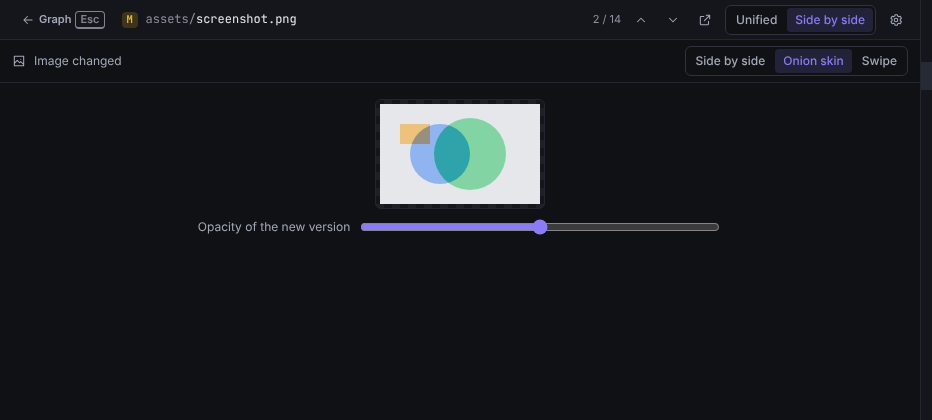
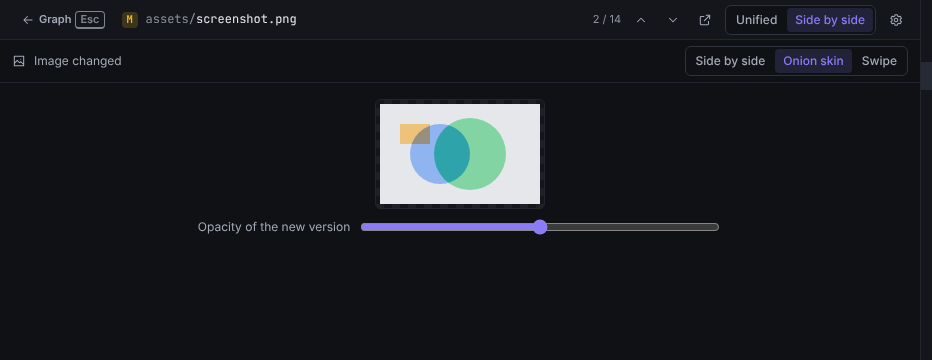
docs(website): fact-check everyday, graph, branches, tags and compare pages
Claude-Session: https://claude.ai/code/session_01V1i14To8BKiPDU9DUqr9cU

diff --git a/e2e/docs-screenshots/start-here.spec.ts b/e2e/docs-screenshots/start-here.spec.ts
@@ -1,0 +1,166 @@
+import { expect, test, type Page } from '@playwright/test';
+
+import { capture, openRepo, start } from './capture';
+
+/** Screenshots of the "Start here" pages: introduction, tour, open a repository, updates. */
+
+const toolbar = (page: Page) => page.getByRole('toolbar', { name: 'Repository actions' });
+const toastWith = (page: Page, text: string) => page.locator('ol > li').filter({ hasText: text });
+
+/** Mock setup (run before the app starts): an update to 0.2.0 offered through `channel`. */
+const updateSetup = (channel: string) => `(mock) => {
+  mock.seedPreferences({ checkUpdates: true });
+  mock.availableUpdate = {
+    currentVersion: '0.1.0',
+    version: '0.2.0',
+    notes: null,
+    date: null,
+    channel: '${channel}',
+  };
+}`;
+
+async function openYaggui(page: Page) {
+  await start(page);
+  await openRepo(page);
+  await expect(page.getByRole('listbox', { name: 'Commit graph' })).toBeVisible();
+}
+
+// introduction.mdx
+
+test('intro-main-window', async ({ page }, testInfo) => {
+  await openYaggui(page);
+  await page.locator('[data-row="wip"]').click();
+  await expect(page.getByRole('region', { name: 'Local changes' })).toBeVisible();
+  await page.mouse.move(640, 790);
+  await capture(page, testInfo, 'intro-main-window');
+});
+
+// updates.mdx
+
+test('updates-notice', async ({ page }, testInfo) => {
+  await start(page, updateSetup('selfUpdate'));
+  const notice = page.getByRole('listitem').filter({ hasText: 'yaggui 0.2.0 is available' });
+  await expect(notice.getByRole('button', { name: 'Update and restart' })).toBeVisible();
+  await capture(page, testInfo, 'updates-notice', notice);
+});
+
+test('updates-upgrade-dialog', async ({ page }, testInfo) => {
+  await start(page, updateSetup('deb'));
+  const notice = page.getByRole('listitem').filter({ hasText: 'yaggui 0.2.0 is available' });
+  await notice.getByRole('button', { name: 'Update', exact: true }).click();
+  const dialog = page.getByRole('dialog', { name: 'Updating yaggui to 0.2.0' });
+  const screen = dialog.locator('.xterm-rows');
+  await expect(screen).toContainText('[sudo] password for me:');
+  // The mock's sudo waits for a password: any input finishes the upgrade.
+  await page.keyboard.type('secret');
+  await page.keyboard.press('Enter');
+  await expect(dialog).toContainText('yaggui 0.2.0 is installed. Restart to use it.');
+  await expect(screen).toContainText('Setting up yaggui (0.2.0)');
+  await capture(page, testInfo, 'updates-upgrade-dialog', dialog);
+});
+
+test('updates-whats-new', async ({ page }, testInfo) => {
+  await start(page);
+  await page
+    .locator('footer')
+    .getByRole('button', { name: /^yaggui 0\.3\.0/ })
+    .click();
+  const dialog = page.getByRole('dialog', { name: "What's new" });
+  await expect(dialog).toContainText('Installed');
+  await capture(page, testInfo, 'updates-whats-new', dialog);
+});
+
+// open-a-repository.mdx
+
+test('open-welcome', async ({ page }, testInfo) => {
+  await start(page);
+  await expect(page.getByRole('heading', { name: 'Welcome to yaggui' })).toBeVisible();
+  await expect(page.getByText('Folder not found')).toBeVisible();
+  await page.getByRole('option', { name: /^blog\b/ }).hover();
+  await capture(page, testInfo, 'open-welcome');
+});
+
+test('open-clone-dialog', async ({ page }, testInfo) => {
+  await start(page);
+  await page.getByRole('button', { name: /^Clone/ }).click();
+  const dialog = page.getByRole('dialog', { name: 'Clone a repository' });
+  await dialog.getByLabel('Repository address').fill('https://github.com/acme/widget.git');
+  await expect(dialog.getByLabel('Clone into')).toHaveValue('/Users/alex/dev');
+  await expect(dialog.getByLabel('Folder name')).toHaveValue('widget');
+  await dialog.getByRole('switch', { name: /Shallow clone/ }).click();
+  await expect(dialog.getByLabel('Depth (commits)')).toBeVisible();
+  await dialog.getByRole('switch', { name: /Shallow clone/ }).blur();
+  await capture(page, testInfo, 'open-clone-dialog', dialog);
+});
+
+test('open-init-dialog', async ({ page }, testInfo) => {
+  await start(page);
+  await page.getByRole('button', { name: /^Init/ }).click();
+  const dialog = page.getByRole('dialog', { name: 'Initialize a repository' });
+  await dialog.getByLabel('Folder', { exact: true }).fill('/Users/alex/dev/new-project');
+  await expect(dialog.getByLabel('Default branch')).toHaveValue('main');
+  await dialog.getByRole('button', { name: 'Node' }).click();
+  await dialog.getByRole('button', { name: 'macOS' }).click();
+  await dialog.getByRole('switch', { name: /Add a README/ }).click();
+  await expect(dialog.getByRole('button', { name: 'macOS' })).toHaveAttribute(
+    'aria-pressed',
+    'true',
+  );
+  await dialog.getByRole('switch', { name: /Add a README/ }).blur();
+  await capture(page, testInfo, 'open-init-dialog', dialog);
+});
+
+// tour.mdx
+
+test('tour-window', async ({ page }, testInfo) => {
+  await openYaggui(page);
+  await page.keyboard.press('Control+T');
+  await openRepo(page, /^linux\b/);
+  await page.keyboard.press('Control+T');
+  await openRepo(page, /^blog\b/);
+  await page.keyboard.press('Control+1');
+  await expect(page.getByRole('tab', { selected: true })).toHaveAccessibleName(/^yaggui\b/);
+  await page.getByRole('listbox', { name: 'Commit graph' }).getByRole('option').nth(1).click();
+  await expect(page.getByRole('region', { name: 'Commit details' })).toBeVisible();
+  await page.mouse.move(640, 790);
+  await capture(page, testInfo, 'tour-window');
+});
+
+test('tour-command-log', async ({ page }, testInfo) => {
+  await openYaggui(page);
+  await toolbar(page).getByRole('button', { name: 'Fetch', exact: true }).click();
+  await expect(toastWith(page, 'Fetch complete')).toBeVisible();
+  await expect(toastWith(page, 'Fetch complete')).toBeHidden({ timeout: 15_000 });
+  await page.keyboard.press('Control+J');
+  const log = page.getByRole('region', { name: 'Command log' });
+  await expect(log).toBeVisible();
+  await log.getByRole('button', { name: /git commit -F -/ }).click();
+  await expect(log).toContainText('3 files changed, 142 insertions(+)');
+  await page.mouse.move(640, 10);
+  await capture(page, testInfo, 'tour-command-log', log);
+});
+
+test('tour-error-toast', async ({ page }, testInfo) => {
+  await openYaggui(page);
+  await page.evaluate(() => window.__yagguiMock?.addOfflineRemote(1));
+  await toolbar(page).getByRole('button', { name: 'Fetch', exact: true }).click();
+  const toast = toastWith(page, 'Fetch failed');
+  await expect(toast.getByRole('button', { name: 'Retry' })).toBeVisible();
+  await page.mouse.move(640, 400);
+  await capture(page, testInfo, 'tour-error-toast', toast);
+});
+
+test('tour-banner-lock', async ({ page }, testInfo) => {
+  await openYaggui(page);
+  await page.evaluate(() =>
+    window.__yagguiMock?.setRepoState(1, {
+      indexLock: { path: '/Users/alex/dev/yaggui/.git/index.lock', ageSecs: 42, stale: true },
+    }),
+  );
+  const message = page.getByText('A Git process probably crashed and left index.lock');
+  await expect(page.getByRole('button', { name: 'Remove the lock…' })).toBeVisible();
+  const banner = message.locator(
+    'xpath=ancestor::*[.//button[normalize-space(.)="Remove the lock…"]][1]',
+  );
+  await capture(page, testInfo, 'tour-banner-lock', banner);
+});

diff --git a/e2e/docs-screenshots/everyday.spec.ts b/e2e/docs-screenshots/everyday.spec.ts
@@ -213,7 +213,12 @@ test('stash-preview', async ({ page }, testInfo) => {
   const details = page.getByRole('region', { name: 'Stash details' });
   await expect(details).toBeVisible();
   await page.mouse.move(0, 0);
-  await capture(page, testInfo, 'stash-preview', details);
+  // The file list scrolls past 360 px: the crop stops under it, not at the bottom of the panel.
+  const crop = await around(page, [
+    details.getByText('WIP on feat/graph-lanes: lanes', { exact: true }),
+    details.getByRole('listbox'),
+  ]);
+  await capture(page, testInfo, 'stash-preview', crop);
 });
 
 test('stash-conflict', async ({ page }, testInfo) => {
@@ -243,7 +248,7 @@ test('diff-split', async ({ page }, testInfo) => {
 });
 
 test('diff-image-onion', async ({ page }, testInfo) => {
-  await page.setViewportSize({ width: 1280, height: 420 });
+  await page.setViewportSize({ width: 1280, height: 360 });
   await openDemo(page, 'screenshot.png');
   await page.getByRole('radio', { name: 'Onion skin' }).click();
   await expect(page.getByRole('slider', { name: /Opacity/ })).toBeVisible();

diff --git a/e2e/docs-screenshots/remotes-inspect.spec.ts b/e2e/docs-screenshots/remotes-inspect.spec.ts
@@ -93,7 +93,9 @@ test('pull-strategy-menu', async ({ page }, testInfo) => {
   const menu = page.getByRole('menu');
   await expect(menu.getByRole('menuitem', { name: /Fast-forward only/ })).toContainText('default');
   await captureUnion(page, testInfo, 'pull-strategy-menu', [
-    toolbar(page).getByRole('button', { name: /^Pull/ }).first(),
+    // The toolbar is aria-hidden behind the menu: reach the split button by its label.
+    page.locator('[role="toolbar"] [aria-label="Pull strategy"]'),
+    page.locator('[role="toolbar"] [aria-label^="Pull"]').first(),
     menu,
   ]);
 });
